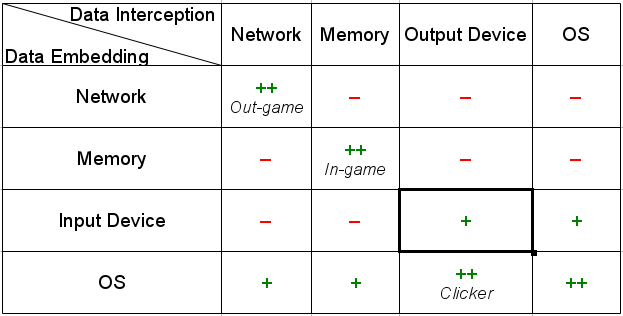
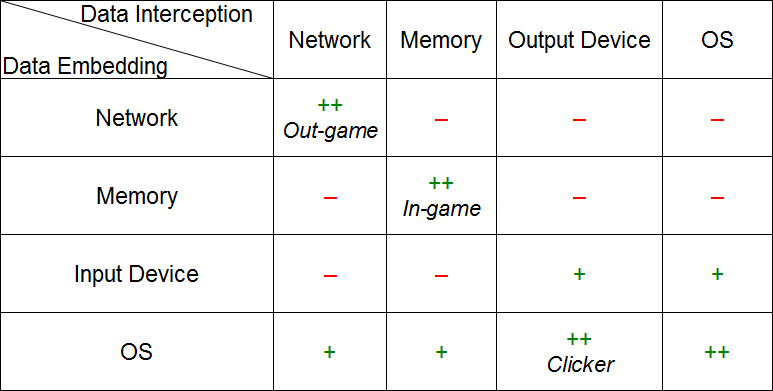
- Complete a style check of the "Types of Bots" chapter - Fix appearance of table in the chapter

diff --git a/BotsClassification/types-of-bots.md b/BotsClassification/types-of-bots.md
@@ -22,13 +22,13 @@ We will use **community classification** term for naming these three kinds of bo
 
 ## Developers Classification
 
-The **community classification** is quite convenient for users of bot applications. But it is not enough for bot developers. The problem is that classification does not reflect how bot application really works and what kind of approaches it uses. It will be better to consider actual methods that bot application uses to [intercept data about the game objects and embed data about the simulated player's actions](http://stackoverflow.com/questions/2741040/video-game-bots) as a bots classification basis.
+The community classification is quite convenient for users of bot applications. But it is not enough for bot developers. The problem is that classification does not reflect how bot application really works and what kind of approaches it uses. It will be better to consider actual methods that bot application uses to intercept data about the game objects and embed data about the simulated player's actions as a bots classification basis.
 
 Now we will review places in our game application scheme where bot is able to intercept the state of game objects. The points of data interception are marked by red crosses:
 
 ![Intercepting Data by Bot](input-data-bot.png)
 
-This is a list of data interception point:
+This is a list of data interception points:
 
 1. **Output devices**. It is possible to capture data from the output devices like monitor or audio card. Game objects have specific colors and game events are often accompanied by specific sounds. You can compare these colors or sounds with predefined values. This allows you to make conclusion about the current state of objects.
 
@@ -70,11 +70,11 @@ You can see plus and minus signs inside each cell. This illustrates an approxima
 
 This is a description of possible values:
 
-The **–** sign means that this combination of data interception and embedding methods requires an unreasonable work effort. Effectiveness and reliability of result can be easier achieved with other approaches.
+The "–" sign means that this combination of data interception and embedding methods requires an unreasonable work effort. Effectiveness and reliability of result can be easier achieved with other approaches.
 
-The **+** sign means that this combination of methods allows you to achieve accurate and effective solution and requires a reasonable amount of work.
+The "+" sign means that this combination of methods allows you to achieve accurate and effective solution and requires a reasonable amount of work.
 
-The **++** sign marks the combinations of methods that allow you to achieve the most effective or the simplest implementation solution.
+The "++" sign marks the combinations of methods that allow you to achieve the most effective or the simplest implementation solution.
 
 Now we can briefly explain the evaluation:
 
